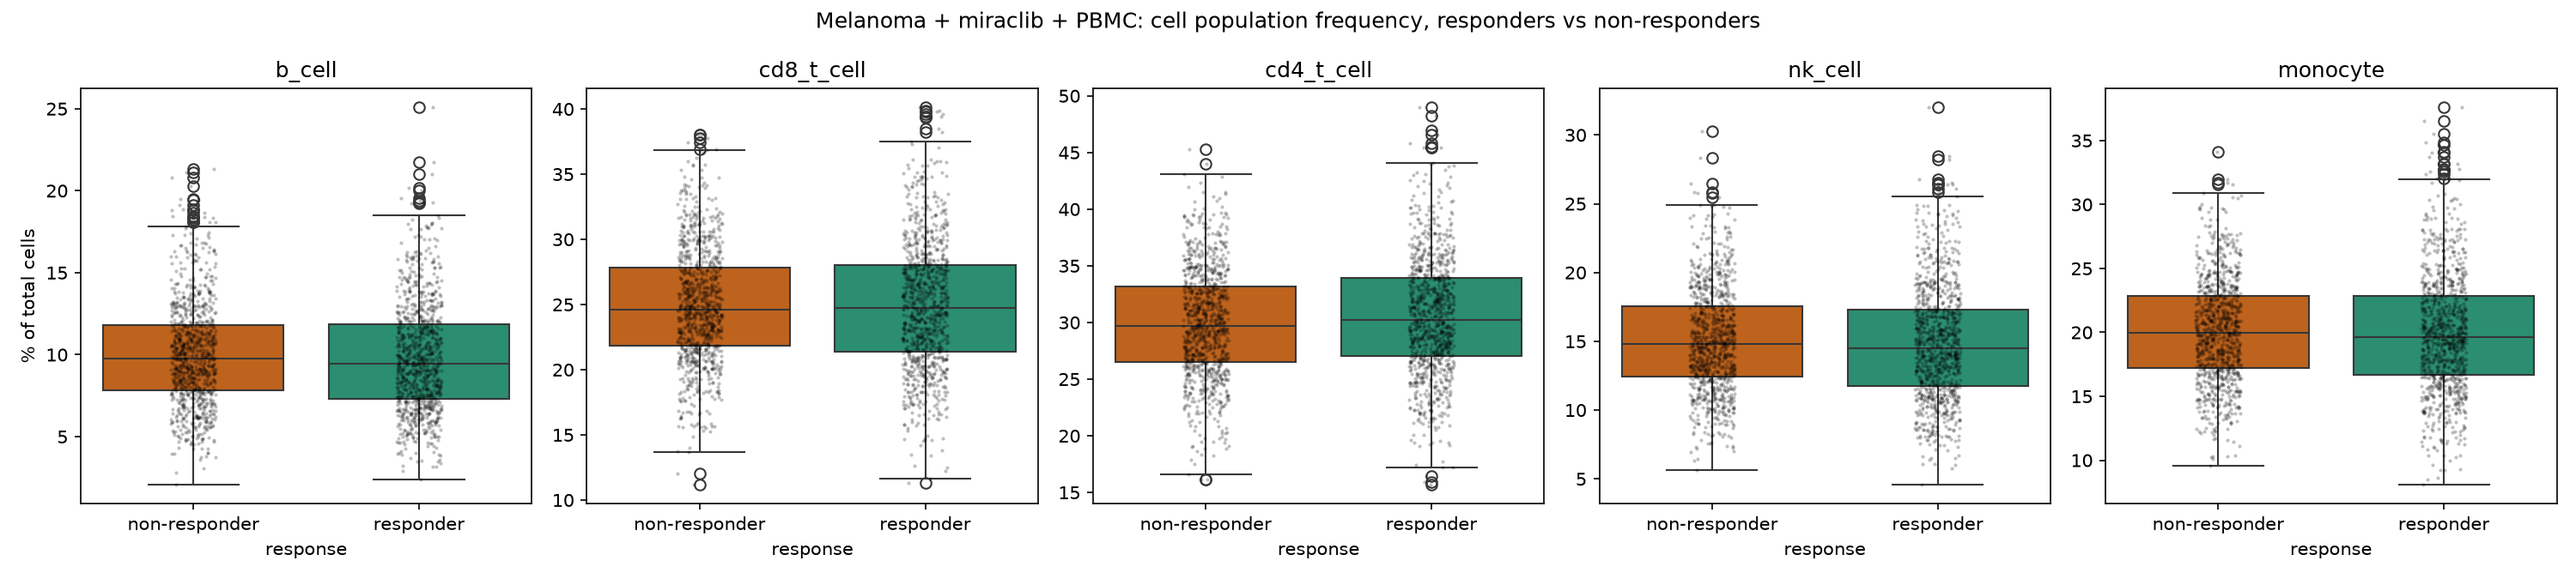
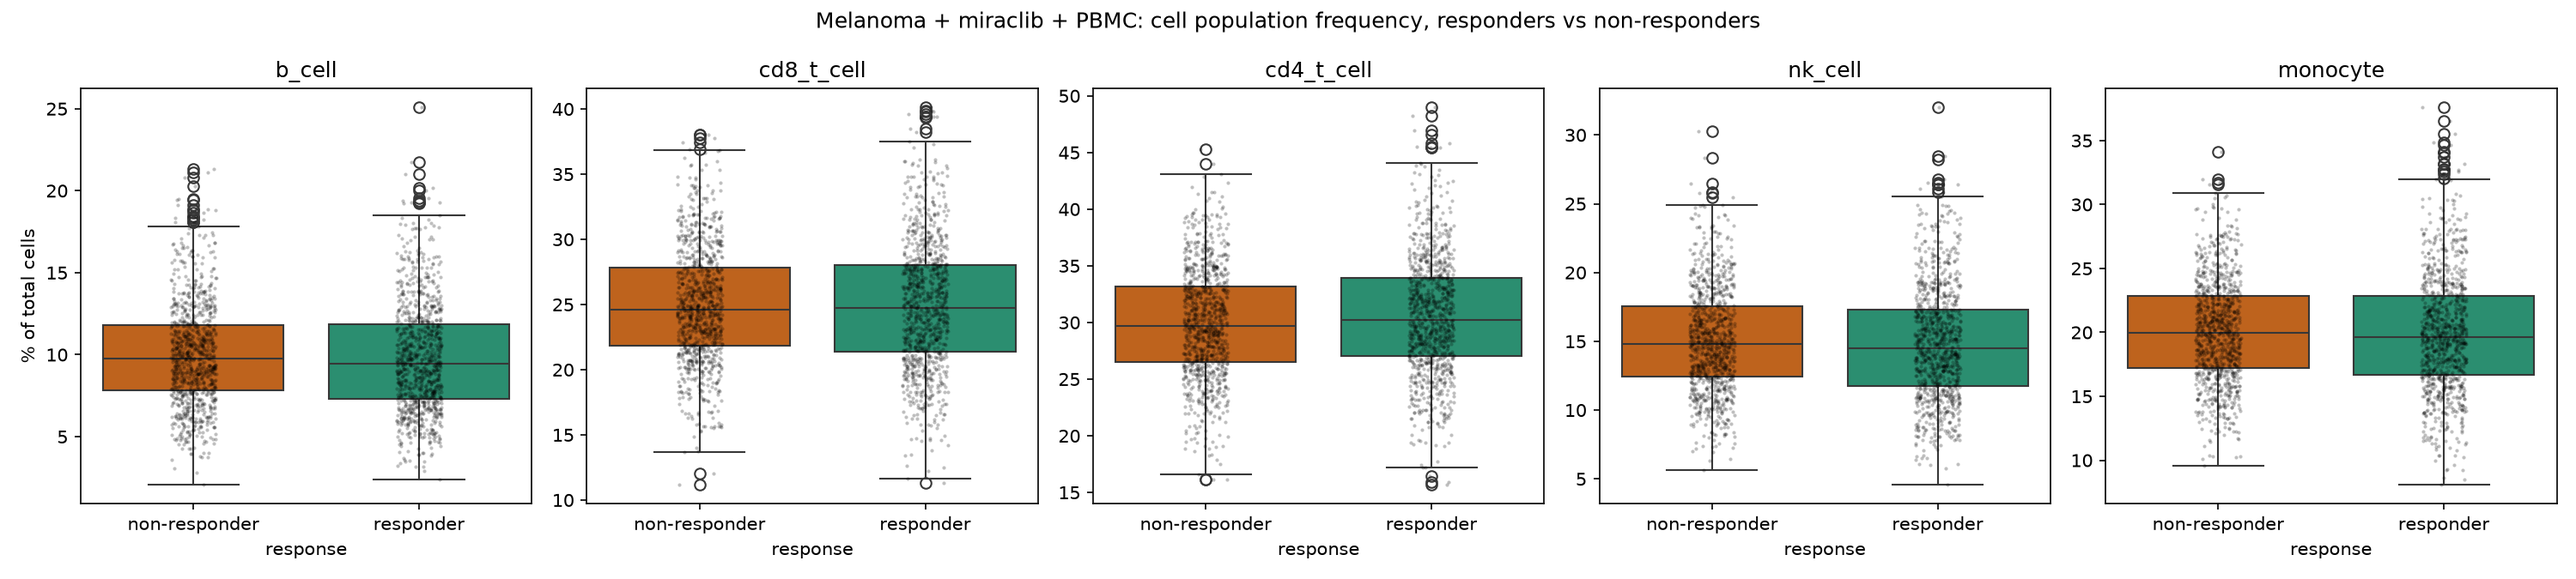
Add Makefile and requirements.txt; make boxplot rendering deterministic

diff --git a/analysis/part3_stats.py b/analysis/part3_stats.py
@@ -16,6 +16,7 @@ import matplotlib
 
 matplotlib.use("Agg")
 import matplotlib.pyplot as plt
+import numpy as np
 import pandas as pd
 import seaborn as sns
 from scipy import stats
@@ -96,6 +97,7 @@ def compare_populations(df: pd.DataFrame) -> pd.DataFrame:
 
 
 def plot_boxplots(df: pd.DataFrame) -> None:
+    np.random.seed(0)  # stripplot jitter is random; fix seed for reproducible output
     fig, axes = plt.subplots(1, len(POPULATIONS), figsize=(4 * len(POPULATIONS), 4.5), sharey=False)
     for ax, population in zip(axes, POPULATIONS):
         sub = df[df["population"] == population]
